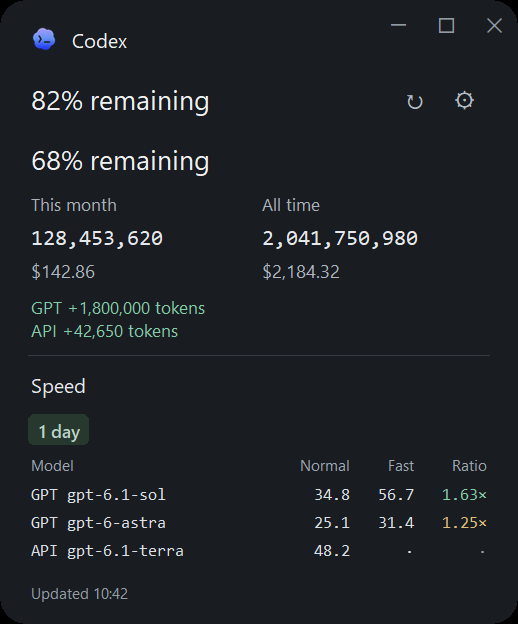
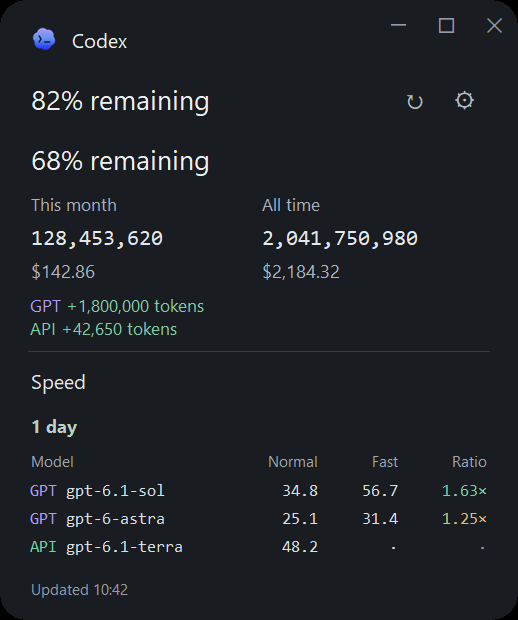
Color account prefixes and simplify period headings

diff --git a/meter.py b/meter.py
@@ -41,7 +41,7 @@ VENDOR = SPEED.parent / 'vendor'
 UPSTREAM = 'https://gist.githubusercontent.com/pszemraj/f8fe69ff5002c3bd0825edfd02001635/raw/codex_speed.py'
 CREATE = 0x08000000 if os.name == 'nt' else 0
 PYTHON = str(Path(sys.executable).with_name('python.exe')) if Path(sys.executable).name.lower() == 'pythonw.exe' else sys.executable
-VERSION = '1.1.1'
+VERSION = '1.1.2'
 REPOSITORY = 'https://github.com/HenryTeo27/ai-agent-usage-speed-app'
 CONTENT_PAD = 28
 SETTINGS_WRAP = 450
@@ -67,7 +67,10 @@ DARK_COLORS = {
     '#42474b':'#cbd3db', '#858b92':'#929aa3', '#e9ecee':'#333a42', '#f2f4f3':'#2c333b',
     '#e9eaec':'#343c45', '#41564b':'#b8d3c3', '#f0f4f1':'#27382f',
     '#185c40':'#82cda8', '#947019':'#dfbd73', '#9b3038':'#ec929a',
+    '#7c3aed':'#b69aff', '#15803d':'#72d6a0', '#1d4ed8':'#8db5ff',
+    '#b45309':'#ffbf70', '#be185d':'#f6a0cb', '#0e7490':'#76d6e8',
 }
+ACCOUNT_COLORS=('#7c3aed','#15803d','#1d4ed8','#b45309','#be185d','#0e7490')
 
 
 def theme_color(color, dark):
@@ -76,7 +79,7 @@ def theme_color(color, dark):
 
 def load_gui():
     """Workers and second-instance launchers do not load the desktop libraries."""
-    global tk, ttk, messagebox, pystray, Image, ImageTk
+    global tk, ttk, messagebox, pystray, Image, ImageTk, AccountLabel
     if 'tk' in globals(): return
     if os.name == 'nt':
         import ctypes
@@ -86,6 +89,32 @@ def load_gui():
     from tkinter import ttk, messagebox
     import pystray
     from PIL import Image, ImageTk
+
+    class AccountLabel(tk.Text):
+        """Read-only text with a separately colored account prefix on each line."""
+        def __init__(self,parent,app,font,color):
+            self.app=app;self.text_value=''
+            super().__init__(parent,font=font,height=1,width=1,bd=0,highlightthickness=0,
+                             padx=2,pady=1,state='disabled',cursor='arrow',takefocus=False,
+                             wrap='none',bg=app.bg,fg=app.color(color))
+        def cget(self,key):
+            return self.text_value if key=='text' else super().cget(key)
+        def configure(self,cnf=None,**kw):
+            value=kw.pop('text',None)
+            result=super().configure(cnf,**kw)
+            if value is not None:
+                self.text_value=value
+                super().configure(state='normal',height=max(1,len(value.splitlines())))
+                self.delete('1.0','end');self.insert('1.0',value)
+                for line,text in enumerate(value.splitlines(),1):
+                    match=re.match(r'^(GPT\d*|API\d*|Codex\d*) ',text)
+                    if match:
+                        tag='account_'+match[1]
+                        self.tag_configure(tag,foreground=self.app.color(self.app.account_color(match[1])))
+                        self.tag_add(tag,f'{line}.0',f'{line}.{len(match[1])}')
+                super().configure(state='disabled')
+            return result
+        config=configure
 
 
 def load_icon(size):
@@ -751,6 +780,16 @@ class App:
 
     def color(self,value): return theme_color(value,self.dark)
 
+    def account_color(self,short):
+        names=getattr(self,'account_order',None)
+        if names is None:
+            names=list(account_names(codex_homes()).values());self.account_order=names
+        for key in ('usage','speed'):
+            for item in self.data.get(key,{}).get('sources',[]):
+                if item.get('short') and item['short'] not in names: names.append(item['short'])
+        index=names.index(short) if short in names else 0
+        return ACCOUNT_COLORS[index%len(ACCOUNT_COLORS)]
+
     def update_logo(self):
         self.logo=ImageTk.PhotoImage(themed_icon(32,self.dark).resize((28,28),Image.Resampling.LANCZOS),master=self.root)
         self.logo_widget.configure(image=self.logo)
@@ -812,6 +851,10 @@ class App:
             if isinstance(widget,tk.Canvas) and widget.find_withtag('badge_bg'):
                 widget.itemconfigure('badge_bg',fill=self.color('#f0f4f1'))
                 widget.itemconfigure('badge_text',fill=self.color('#41564b'))
+            if isinstance(widget,AccountLabel):
+                for tag in widget.tag_names():
+                    if tag.startswith('account_'):
+                        widget.tag_configure(tag,foreground=self.color(self.account_color(tag[8:])))
             for child in widget.winfo_children(): recolor(child)
         recolor(self.root);self.configure_ttk();self.theme_caption(self.root)
         window=getattr(self,'settings_window',None)
@@ -870,18 +913,7 @@ class App:
         return tk.Label(parent,text=text,bg=self.bg,fg=self.color(color),font=(font,size,'bold' if bold else 'normal'),**kw)
 
     def period_badge(self,parent,text):
-        from tkinter import font as tkfont
-        font=tkfont.Font(root=self.root,font=('Segoe UI Semibold',11))
-        width=font.measure(text)+20;height=font.metrics('linespace')+6
-        radius=height/2
-        badge=tk.Canvas(parent,width=width,height=height,bg=self.bg,bd=0,highlightthickness=0)
-        badge.badge_font=font
-        badge.create_polygon(radius,0,width-radius,0,width,0,width,radius,
-                             width,height-radius,width,height,width-radius,height,
-                             radius,height,0,height,0,height-radius,0,radius,0,0,
-                             smooth=True,splinesteps=24,fill=self.color('#f0f4f1'),outline='',tags='badge_bg')
-        badge.create_text(width/2,height/2,text=text,font=font,fill=self.color('#41564b'),tags='badge_text')
-        return badge
+        return self.label(parent,text,11,'#41564b',bold=True,anchor='w')
 
     def compact_height(self):
         """Fit the first speed table once at startup; refresh never resizes the app."""
@@ -930,7 +962,7 @@ class App:
             price=self.label(f,'',11,'#73777b',anchor='w');price.pack(fill='x')
             widgets['usage'][key]=number;widgets['usage'][cost]=price
             Tooltip(price,'Estimated API-equivalent cost (USD)')
-        delta=self.label(self.body,'',10,'#185c40',anchor='w',justify='left')
+        delta=AccountLabel(self.body,self,('Segoe UI',10),'#185c40')
         delta.pack(fill='x',pady=(7,10));widgets['delta']=delta
         Tooltip(delta,lambda:delta_tooltip(self.data,self.settings) if 'delta_sources' in self.data or self.data.get('delta') is not None else 'Available after the next successful refresh')
         tk.Frame(self.body,bg=self.color('#e9eaec'),height=1).pack(fill='x')
@@ -991,7 +1023,7 @@ class App:
             if item is None:
                 labels=[];tips={}
                 for col in range(4):
-                    label=self.label(grid,'',10,'#353a3e',font='Consolas',anchor='w' if col==0 else 'e')
+                    label=AccountLabel(grid,self,('Consolas',10),'#353a3e') if col==0 else self.label(grid,'',10,'#353a3e',font='Consolas',anchor='e')
                     label.grid(row=index,column=col,sticky='ew',pady=1);labels.append(label)
                     if col in (1,2,3): tips[col]=Tooltip(label,'')
                 item={'labels':labels,'tips':tips,'row':index};existing[key]=item

diff --git a/test_theme.py b/test_theme.py
@@ -50,7 +50,7 @@ class ThemeTests(unittest.TestCase):
             finally:
                 app.closed=True;app.root.destroy()
 
-    def test_rounded_period_badges_keep_labels_and_follow_both_themes(self):
+    def test_period_labels_have_no_background_box_and_follow_themes(self):
         meter.load_gui()
         with patch.object(meter.App,'show'),patch.object(meter.App,'setup_tray'),patch.object(meter.App,'refresh'),patch.object(meter.App,'schedule'),patch.object(meter.App,'publish_ready'):
             app=meter.App()
@@ -59,14 +59,13 @@ class ThemeTests(unittest.TestCase):
                     for child in widget.winfo_children():
                         yield child
                         yield from descendants(child)
-                badges=[w for w in descendants(app.body) if isinstance(w,meter.tk.Canvas) and w.find_withtag('badge_bg')]
-                self.assertEqual([w.itemcget('badge_text','text') for w in badges],['1 day','14 days'])
+                periods=[w for w in descendants(app.body) if isinstance(w,meter.tk.Label) and w.cget('text') in ('1 day','14 days')]
+                self.assertEqual(len(periods),2)
                 for dark in (True,False):
                     app.sync_theme(dark);app.root.update_idletasks()
-                    for badge in badges:
-                        self.assertEqual(badge.itemcget('badge_bg','fill'),app.color('#f0f4f1'))
-                        self.assertEqual(badge.itemcget('badge_text','fill'),app.color('#41564b'))
-                        self.assertEqual(badge.itemcget('badge_bg','smooth'),'true')
+                    for label in periods:
+                        self.assertEqual(label.cget('bg'),app.bg)
+                        self.assertEqual(label.cget('fg'),app.color('#41564b'))
                     self.assertEqual(app.root.state(),'withdrawn')
             finally:
                 app.closed=True;app.root.destroy()

diff --git a/README.md b/README.md
@@ -9,7 +9,7 @@ A small Windows desktop meter for Codex usage and speed. Close it to the notific
 
 *Codex Meter in dark and light mode.*
 
-The current interface uses slightly larger text and wider outer padding. The window starts at 500 pixels wide and fits the current 1-day speed table with a little bottom space. Scroll down to see 14 days. Refresh does not resize the window. Side margins remain 28 pixels; muted gray window controls stay flush with the top-right edge. Period badges have pill corners and the window uses a larger corner radius.
+The current interface uses slightly larger text and wider outer padding. The window starts at 500 pixels wide and fits the current 1-day speed table with a little bottom space. Scroll down to see 14 days. Refresh does not resize the window. Side margins remain 28 pixels; muted gray window controls stay flush with the top-right edge. Period headings are plain text, without background boxes. The window uses a larger corner radius.
 
 Appearance in Settings offers **System**, **Light** and **Dark**. System follows Windows' default app mode, including Custom mode. Light and Dark remain selected when Windows changes theme. Dark mode uses charcoal surfaces, lighter text and readable green, amber and red values. Switching appearance does not restart the app or scan logs.
 
@@ -76,7 +76,7 @@ Costs are estimated API-equivalent costs from [ccusage](https://github.com/ccusa
 
 ### Accounts and local homes
 
-The app looks for `~/.codex`, other `~/.codex*` directories containing Codex config, credentials or sessions, and the current or Windows-saved `CODEX_HOME`. To add homes elsewhere, set the Windows user environment variable `CODEX_METER_EXTRA_HOMES` to their full paths separated by semicolons, then reopen Settings. Each home appears under **Local Codex accounts**. GPT, API, GPT2 and API2 are short local source names; the directory and available plan details identify each entry in Settings.
+The app looks for `~/.codex`, other `~/.codex*` directories containing Codex config, credentials or sessions, and the current or Windows-saved `CODEX_HOME`. To add homes elsewhere, set the Windows user environment variable `CODEX_METER_EXTRA_HOMES` to their full paths separated by semicolons, then reopen Settings. Each home appears under **Local Codex accounts**. Account prefixes use purple, green, blue, orange, pink and cyan in source order, with lighter variants in dark mode. Models and numbers retain their usual colors. GPT, API, GPT2 and API2 are short local source names; the directory and available plan details identify each entry in Settings.
 
 Account switches save immediately. Disabled sources are excluded from displayed totals, deltas and speed rows and are skipped by subsequent refreshes. A refresh already running finishes with the selection captured at its start. Re-enabling a source displays its cached data until the next refresh. The first successful scan of a newly enabled source establishes its token-change baseline.
 
